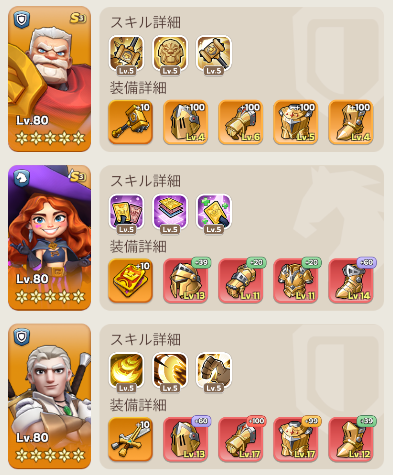
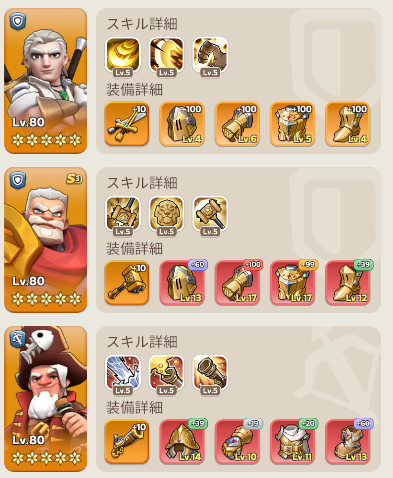
敵鯖ランキングとスクショを更新
ランキング4部門を最新版に更新（初期版は保管のまま）。
英雄装備-競技場のスクショ12枚を差し替え。

diff --git a/event-kingdom.html b/event-kingdom.html
@@ -46,16 +46,16 @@
                 <tr><th>順位</th><th>戦力</th><th>同盟</th><th>プレイヤー</th></tr>
               </thead>
               <tbody>
-                <tr class="top1"><td class="rk">🥇</td><td class="num">517.2M</td><td><span class="al-tag">POD</span></td><td class="who">DILF Recruiter</td></tr>
-                <tr class="top2"><td class="rk">🥈</td><td class="num">299.7M</td><td><span class="al-tag">HGD</span></td><td class="who">Wrenchie</td></tr>
-                <tr class="top3"><td class="rk">🥉</td><td class="num">266.9M</td><td><span class="al-tag">GDR</span></td><td class="who">任沅意</td></tr>
-                <tr><td class="rk">4</td><td class="num">242.8M</td><td><span class="al-tag">POD</span></td><td class="who">Good Boy</td></tr>
+                <tr class="top1"><td class="rk">🥇</td><td class="num">512.2M</td><td><span class="al-tag">PPC</span></td><td class="who">DILF Recruiter</td></tr>
+                <tr class="top2"><td class="rk">🥈</td><td class="num">300.8M</td><td><span class="al-tag">HGD</span></td><td class="who">Wrenchie</td></tr>
+                <tr class="top3"><td class="rk">🥉</td><td class="num">267.9M</td><td><span class="al-tag">GDR</span></td><td class="who">任沅意</td></tr>
+                <tr><td class="rk">4</td><td class="num">244.7M</td><td><span class="al-tag">PPC</span></td><td class="who">Good Boy</td></tr>
                 <tr><td class="rk">5</td><td class="num">234.2M</td><td><span class="al-tag">POD</span></td><td class="who">DaddyPeterGriff</td></tr>
-                <tr><td class="rk">6</td><td class="num">222.8M</td><td><span class="al-tag">POD</span></td><td class="who">warlord skip</td></tr>
-                <tr><td class="rk">7</td><td class="num">218.3M</td><td><span class="al-tag">GDR</span></td><td class="who">WARcommander37</td></tr>
-                <tr><td class="rk">8</td><td class="num">218.1M</td><td><span class="al-tag">VAL</span></td><td class="who">KrabKing</td></tr>
-                <tr><td class="rk">9</td><td class="num">215.4M</td><td><span class="al-tag">HGD</span></td><td class="who">Skdòosh</td></tr>
-                <tr><td class="rk">10</td><td class="num">214.5M</td><td><span class="al-tag">POD</span></td><td class="who">Universe</td></tr>
+                <tr><td class="rk">6</td><td class="num">227.9M</td><td><span class="al-tag">GDR</span></td><td class="who">WARcommander37</td></tr>
+                <tr><td class="rk">7</td><td class="num">223.7M</td><td><span class="al-tag">POD</span></td><td class="who">warlord skip</td></tr>
+                <tr><td class="rk">8</td><td class="num">219.3M</td><td><span class="al-tag">VAL</span></td><td class="who">KrabKing</td></tr>
+                <tr><td class="rk">9</td><td class="num">217.5M</td><td><span class="al-tag">POD</span></td><td class="who">Universe</td></tr>
+                <tr><td class="rk">10</td><td class="num">211.6M</td><td><span class="al-tag">HGD</span></td><td class="who">Skdòosh</td></tr>
               </tbody>
             </table>
           </div>
@@ -71,13 +71,13 @@
                 <tr><th>順位</th><th>スコア</th><th>同盟</th><th>プレイヤー</th></tr>
               </thead>
               <tbody>
-                <tr class="top1"><td class="rk">🥇</td><td class="num">1,937</td><td><span class="al-tag">POD</span></td><td class="who">DILF Recruiter</td></tr>
-                <tr class="top2"><td class="rk">🥈</td><td class="num">1,652</td><td><span class="al-tag">GDR</span></td><td class="who">B O S S</td></tr>
-                <tr class="top3"><td class="rk">🥉</td><td class="num">1,594</td><td><span class="al-tag">HGD</span></td><td class="who">Wrenchie</td></tr>
-                <tr><td class="rk">4</td><td class="num">1,583</td><td><span class="al-tag">GDR</span></td><td class="who">任沅意</td></tr>
-                <tr><td class="rk">5</td><td class="num">1,562</td><td><span class="al-tag">GDR</span></td><td class="who">WARcommander37</td></tr>
-                <tr><td class="rk">6</td><td class="num">1,537</td><td>—</td><td class="who">Roadrage424</td></tr>
-                <tr><td class="rk">7</td><td class="num">1,466</td><td><span class="al-tag">VAL</span></td><td class="who">KrabKing</td></tr>
+                <tr class="top1"><td class="rk">🥇</td><td class="num">1,937</td><td><span class="al-tag">PPC</span></td><td class="who">DILF Recruiter</td></tr>
+                <tr class="top2"><td class="rk">🥈</td><td class="num">1,655</td><td><span class="al-tag">GDR</span></td><td class="who">B O S S</td></tr>
+                <tr class="top3"><td class="rk">🥉</td><td class="num">1,607</td><td><span class="al-tag">HGD</span></td><td class="who">Wrenchie</td></tr>
+                <tr><td class="rk">4</td><td class="num">1,592</td><td><span class="al-tag">GDR</span></td><td class="who">任沅意</td></tr>
+                <tr><td class="rk">5</td><td class="num">1,563</td><td><span class="al-tag">VAL</span></td><td class="who">Roadrage424</td></tr>
+                <tr><td class="rk">6</td><td class="num">1,562</td><td><span class="al-tag">GDR</span></td><td class="who">WARcommander37</td></tr>
+                <tr><td class="rk">7</td><td class="num">1,476</td><td><span class="al-tag">VAL</span></td><td class="who">KrabKing</td></tr>
                 <tr><td class="rk">8</td><td class="num">1,462</td><td><span class="al-tag">POD</span></td><td class="who">BrDg</td></tr>
                 <tr><td class="rk">9</td><td class="num">1,394</td><td><span class="al-tag">POD</span></td><td class="who">Quag</td></tr>
                 <tr><td class="rk">10</td><td class="num">1,388</td><td><span class="al-tag">POD</span></td><td class="who">warlord skip</td></tr>
@@ -96,16 +96,16 @@
                 <tr><th>順位</th><th>戦力</th><th>同盟</th><th>英雄</th><th>プレイヤー</th></tr>
               </thead>
               <tbody>
-                <tr class="top1"><td class="rk">🥇</td><td class="num">12.7M</td><td><span class="al-tag">POD</span></td><td class="who"><img class="mk" src="image/アマデウス.webp" alt="アマデウス">アマデウス</td><td class="who">DILF Recruiter</td></tr>
+                <tr class="top1"><td class="rk">🥇</td><td class="num">13.0M</td><td><span class="al-tag">PPC</span></td><td class="who"><img class="mk" src="image/エリック.webp" alt="エリック">エリック</td><td class="who">DILF Recruiter</td></tr>
                 <tr class="top2"><td class="rk">🥈</td><td class="num">9.1M</td><td><span class="al-tag">GDR</span></td><td class="who"><img class="mk" src="image/アマデウス.webp" alt="アマデウス">アマデウス</td><td class="who">B O S S</td></tr>
                 <tr class="top3"><td class="rk">🥉</td><td class="num">8.9M</td><td><span class="al-tag">GDR</span></td><td class="who"><img class="mk" src="image/アマデウス.webp" alt="アマデウス">アマデウス</td><td class="who">任沅意</td></tr>
-                <tr><td class="rk">4</td><td class="num">7.3M</td><td><span class="al-tag">HGD</span></td><td class="who"><img class="mk" src="image/ゾーイ.webp" alt="ゾーイ">ゾーイ</td><td class="who">Wrenchie</td></tr>
-                <tr><td class="rk">5</td><td class="num">7.0M</td><td><span class="al-tag">POD</span></td><td class="who"><img class="mk" src="image/ゾーイ.webp" alt="ゾーイ">ゾーイ</td><td class="who">Mr Rogers</td></tr>
-                <tr><td class="rk">6</td><td class="num">6.3M</td><td><span class="al-tag">POD</span></td><td class="who"><img class="mk" src="image/アマデウス.webp" alt="アマデウス">アマデウス</td><td class="who">Universe</td></tr>
-                <tr><td class="rk">7</td><td class="num">6.1M</td><td><span class="al-tag">GDR</span></td><td class="who"><img class="mk" src="image/アマデウス.webp" alt="アマデウス">アマデウス</td><td class="who">WARcommander37</td></tr>
-                <tr><td class="rk">8</td><td class="num">5.3M</td><td><span class="al-tag">POD</span></td><td class="who"><img class="mk" src="image/アマデウス.webp" alt="アマデウス">アマデウス</td><td class="who">warlord skip</td></tr>
-                <tr><td class="rk">9</td><td class="num">5.1M</td><td><span class="al-tag">VAL</span></td><td class="who"><img class="mk" src="image/マリン.webp" alt="マリン">マリン</td><td class="who">KrabKing</td></tr>
-                <tr><td class="rk">10</td><td class="num">5.0M</td><td><span class="al-tag">HGD</span></td><td class="who"><img class="mk" src="image/ゾーイ.webp" alt="ゾーイ">ゾーイ</td><td class="who">Skdòosh</td></tr>
+                <tr><td class="rk">4</td><td class="num">8.7M</td><td><span class="al-tag">VAL</span></td><td class="who"><img class="mk" src="image/エリック.webp" alt="エリック">エリック</td><td class="who">Roadrage424</td></tr>
+                <tr><td class="rk">5</td><td class="num">7.3M</td><td><span class="al-tag">HGD</span></td><td class="who"><img class="mk" src="image/ゾーイ.webp" alt="ゾーイ">ゾーイ</td><td class="who">Wrenchie</td></tr>
+                <tr><td class="rk">6</td><td class="num">7.3M</td><td><span class="al-tag">POD</span></td><td class="who"><img class="mk" src="image/ゾーイ.webp" alt="ゾーイ">ゾーイ</td><td class="who">Mr Rogers</td></tr>
+                <tr><td class="rk">7</td><td class="num">6.3M</td><td><span class="al-tag">POD</span></td><td class="who"><img class="mk" src="image/アマデウス.webp" alt="アマデウス">アマデウス</td><td class="who">Universe</td></tr>
+                <tr><td class="rk">8</td><td class="num">6.1M</td><td><span class="al-tag">GDR</span></td><td class="who"><img class="mk" src="image/アマデウス.webp" alt="アマデウス">アマデウス</td><td class="who">WARcommander37</td></tr>
+                <tr><td class="rk">9</td><td class="num">5.3M</td><td><span class="al-tag">PPC</span></td><td class="who"><img class="mk" src="image/アマデウス.webp" alt="アマデウス">アマデウス</td><td class="who">Good Boy</td></tr>
+                <tr><td class="rk">10</td><td class="num">5.3M</td><td><span class="al-tag">POD</span></td><td class="who"><img class="mk" src="image/アマデウス.webp" alt="アマデウス">アマデウス</td><td class="who">warlord skip</td></tr>
               </tbody>
             </table>
           </div>
@@ -121,15 +121,15 @@
                 <tr><th>順位</th><th>戦力</th><th>同盟</th><th>同盟名</th></tr>
               </thead>
               <tbody>
-                <tr class="top1"><td class="rk">🥇</td><td class="num">10.7B</td><td><span class="al-tag">POD</span></td><td class="who">IronDolphins</td></tr>
-                <tr class="top2"><td class="rk">🥈</td><td class="num">8.9B</td><td><span class="al-tag">VAL</span></td><td class="who">VanguardElite</td></tr>
-                <tr class="top3"><td class="rk">🥉</td><td class="num">7.6B</td><td><span class="al-tag">GDR</span></td><td class="who">GuildedDominium</td></tr>
+                <tr class="top1"><td class="rk">🥇</td><td class="num">10.0B</td><td><span class="al-tag">POD</span></td><td class="who">IronDolphins</td></tr>
+                <tr class="top2"><td class="rk">🥈</td><td class="num">9.2B</td><td><span class="al-tag">VAL</span></td><td class="who">VanguardElite</td></tr>
+                <tr class="top3"><td class="rk">🥉</td><td class="num">7.7B</td><td><span class="al-tag">GDR</span></td><td class="who">GuildedDominium</td></tr>
                 <tr><td class="rk">4</td><td class="num">6.5B</td><td><span class="al-tag">HGD</span></td><td class="who">HighGuard</td></tr>
                 <tr><td class="rk">5</td><td class="num">5.1B</td><td><span class="al-tag">MNS</span></td><td class="who">MidnightShadow</td></tr>
                 <tr><td class="rk">6</td><td class="num">4.4B</td><td><span class="al-tag">gdr</span></td><td class="who">Empire</td></tr>
-                <tr><td class="rk">7</td><td class="num">3.2B</td><td><span class="al-tag">JOK</span></td><td class="who">BadJokes</td></tr>
+                <tr><td class="rk">7</td><td class="num">3.8B</td><td><span class="al-tag">PPC</span></td><td class="who">PinkPonyClub</td></tr>
                 <tr><td class="rk">8</td><td class="num">3.1B</td><td><span class="al-tag">NO9</span></td><td class="who">1909Daredevil</td></tr>
-                <tr><td class="rk">9</td><td class="num">2.9B</td><td><span class="al-tag">PPC</span></td><td class="who">PinkPonyClub</td></tr>
+                <tr><td class="rk">9</td><td class="num">3.1B</td><td><span class="al-tag">JOK</span></td><td class="who">BadJokes</td></tr>
                 <tr><td class="rk">10</td><td class="num">1.2B</td><td><span class="al-tag">HgD</span></td><td class="who">RepublicOfHGD</td></tr>
               </tbody>
             </table>
